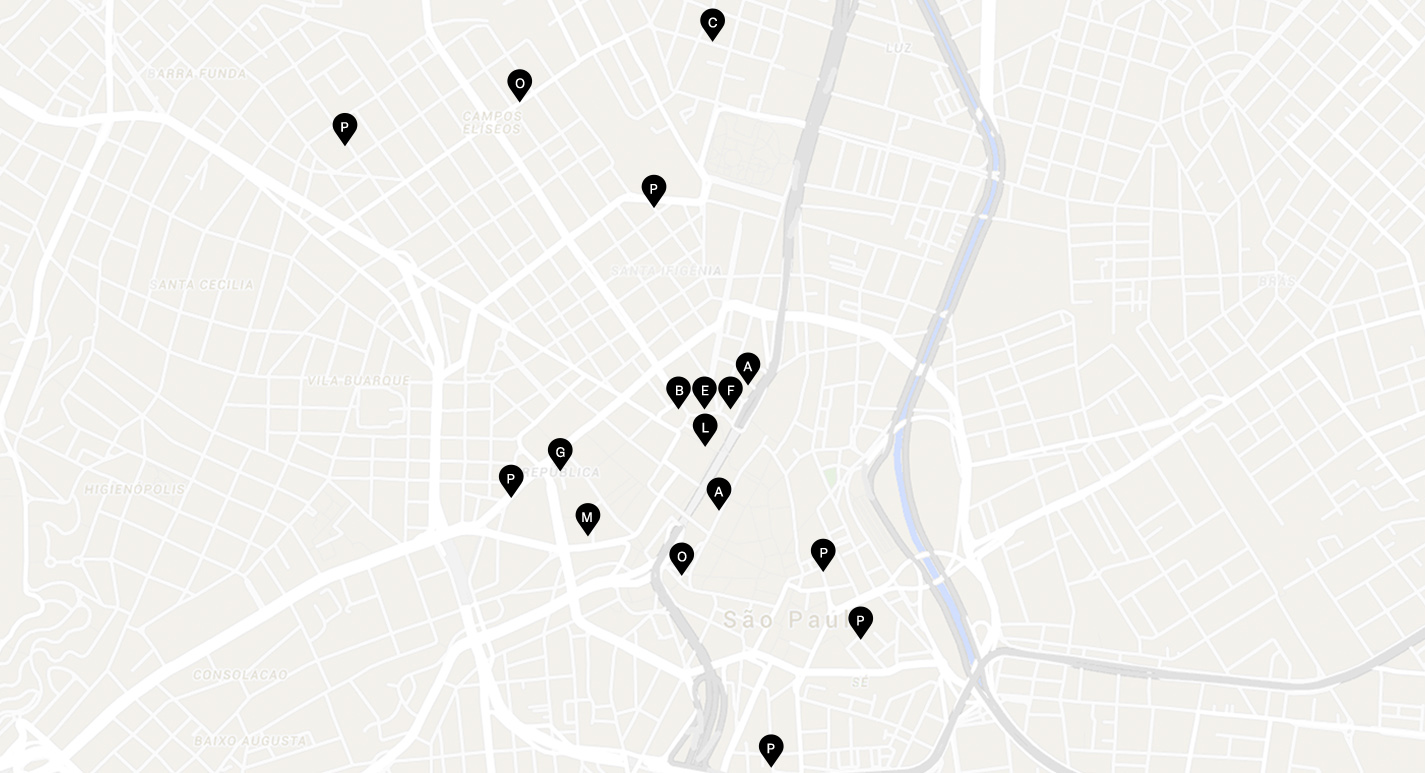
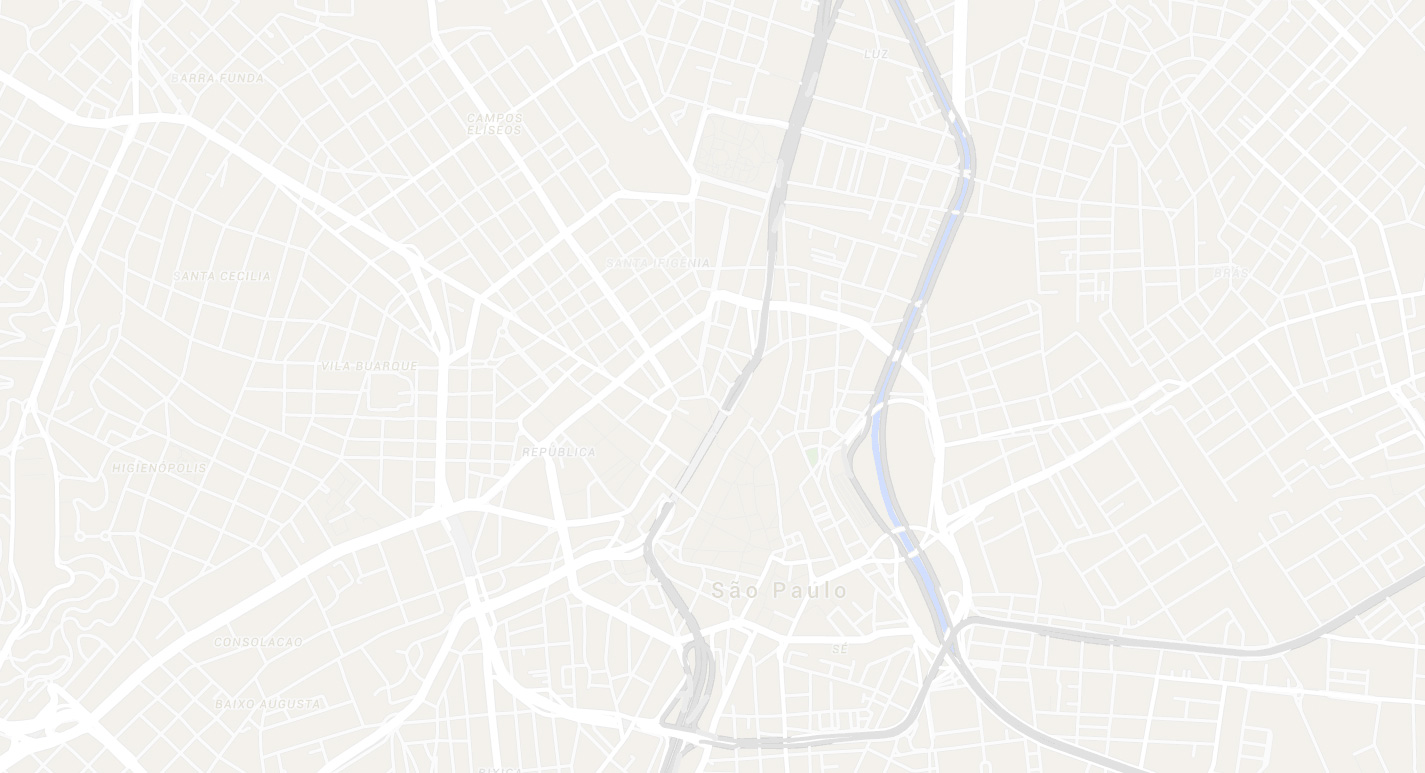
add map

diff --git a/app/sobre.html b/app/sobre.html
@@ -11,22 +11,25 @@ description: CENTRO é um registro da ocupação criativa do centro de São Paul
       </div>
     </div>
     <div class="row margin-bottom">
-      <div class="col-md-6 col-md-offset-1">
+      <div class="col-md-4 col-md-offset-1">
         <dl class="authors">
           <dt>Edição</dt>
           <dd>Luiz Romero (texto), <br> Felipe Rocha e Murilo Fonseca (arte)</dd>
 
           <dt>Fotos</dt>
           <dd>Leonardo Sang</dd>
-
+        </dl>
+      </div>
+      <div class="col-md-4 col-md-offset-1">
+        <dl class="authors">
           <dt>Textos</dt>
-          <dd>Luiz Romero, Alexandre Aragão, <br> Luisa Cella e Nathan Fernandes</dd>
+          <dd>Luiz Romero, Alexandre Aragão, Luisa Cella e Nathan Fernandes</dd>
 
           <dt>Design</dt>
-          <dd>Felipe Rocha e Murilo Fonseca</dd>
+          <dd>Felipe Rocha<br> e Murilo Fonseca</dd>
 
           <dt></dt>
-          <dd>Obrigado a Lucas Andrade, <br> Livia Ascava, Victor de Bone, <br> Nicolas Henriques, Denise Saito <br> e Carolina Wan</dd>
+          <dd>Obrigado a Lucas Andrade, Livia Ascava, Victor de Bone, Nicolas Henriques, Denise Saito<br> e Carolina Wan</dd>
         </dl>
       </div>
     </div>
@@ -36,11 +39,6 @@ description: CENTRO é um registro da ocupação criativa do centro de São Paul
     <div class="row margin-bottom">
       <div class="col-md-6 show-smooth">
         <img src="img/content/about/01.jpg" class="" alt="">
-      </div>
-    </div>
-    <div class="row margin-bottom">
-      <div class="col-md-5 col-md-offset-4 show-smooth">
-        <img src="img/content/about/02.jpg" class="" alt="">
       </div>
     </div>
     <div class="row margin-bottom">
@@ -54,21 +52,6 @@ description: CENTRO é um registro da ocupação criativa do centro de São Paul
       </div>
     </div>
     <div class="row margin-bottom">
-      <div class="col-md-4 show-smooth">
-        <img src="img/content/about/05.jpg" class="" alt="">
-      </div>
-    </div>
-    <div class="row margin-bottom">
-      <div class="col-md-8 col-md-offset-2 show-smooth">
-        <img src="img/content/about/06.jpg" class="" alt="">
-      </div>
-    </div>
-    <div class="row margin-bottom">
-      <div class="col-md-6 pull-right show-smooth">
-        <img src="img/content/about/07.jpg" class="" alt="">
-      </div>
-    </div>
-    <div class="row margin-bottom">
       <div class="col-md-8 pull-right show-smooth">
         <img src="img/content/about/08.jpg" class="" alt="">
       </div>
@@ -79,20 +62,23 @@ description: CENTRO é um registro da ocupação criativa do centro de São Paul
       </div>
     </div>
     <div class="row margin-bottom">
-      <div class="col-md-8 col-md-offset-2 show-smooth">
-        <img src="img/content/about/10.jpg" class="" alt="">
-      </div>
-    </div>
-    <div class="row margin-bottom">
-      <div class="col-md-6 pull-right show-smooth">
-        <img src="img/content/about/11.jpg" class="" alt="">
-      </div>
-    </div>
-    <div class="row margin-bottom">
       <div class="col-md-8 pull-right show-smooth">
         <img src="img/content/about/12.jpg" class="" alt="">
       </div>
     </div>
   </div>
 </div>
-<div class="map-container"></div>
+<div class="map-container">
+  <img src="img/content/about/map.jpg" class="" alt="">
+
+  {% sorted_for post in site.posts sort_by:weight %}
+    {% if post.letter %}
+    <a if {% if post.enabled == "enabled" %} href="{{ post.url | remove_first:'/' }}" {% else %} href="javascript:;" {% endif %} class="marker" style="bottom:{{ post.bottom }}; left: {{ post.left }};">{{ post.letter }}</a>
+    <div class="place">
+      <h1>{{ post.title }}</h1>
+      <p>{{ post.description }}</p>
+    </div>
+    {% endif %}
+  {% endsorted_for %}
+
+</div>

diff --git a/app/_layouts/about.html b/app/_layouts/about.html
@@ -14,10 +14,10 @@
         <meta property="og:description" content="{{ page.description }}"/>
 
         <meta name="twitter:card" content="summary_large_image">
-        <meta name="twitter:site" content="@centrocx">
+        <meta name="twitter:site" content="">
         <meta name="twitter:title" content="{{ page.title }}">
         <meta name="twitter:description" content="{{ page.description }} http://test.frontphant.com/centro/">
-        <meta name="twitter:creator" content="@centrocx">
+        <meta name="twitter:creator" content="">
         <meta name="twitter:image:src" content="http://test.frontphant.com/centro/img/share/share.jpg">
         <meta name="twitter:domain" content="http://test.frontphant.com/centro/">
 
@@ -41,8 +41,8 @@
       <header class="clearfix">
         <a data-component="Toggle" data-target="#menu" data-event="touchend mouseover" href="javascript:;" id="menu-icon" class="dark">Abrir Menu</a>
         <div class="share-options">
-          <a class="share-link share-link__fb dark" href="javascript:;">facebook</a>
-          <a class="share-link share-link__twitter dark" href="javascript:;">facebook</a>
+          <a class="share-link share-link__fb" href="https://www.facebook.com/sharer.php?u=http://test.frontphant.com/centro/">facebook</a>
+          <a class="share-link share-link__twitter" href="https://twitter.com/intent/tweet?text={{ page.description }}&url=http://test.frontphant.com/centro/">twitter</a>
         </div>
       </header>
 

diff --git a/app/_scss/templates/_about.scss b/app/_scss/templates/_about.scss
@@ -48,7 +48,65 @@
 .map-container {
   position: relative;
   width: 100%;
-  height: 773px;
-  background: #f4f2ec image-url("content/about/map.jpg") no-repeat center;
-  @include background-size(cover);
+  background: #f4f2ec;
+
+  img {
+    width: 100%; 
+    z-index: 1;
+  }
+
+  .place {
+    display: none;
+    position: absolute;
+    top: 36%;
+    width: 100%;
+    left: 0;
+    transform: translate(0,-50%);
+    text-align: center;
+    z-index: 1;
+
+    h1 {
+      font: 700 100px "Plantin";
+      margin: 0;
+      line-height: 1;
+    }
+
+    p {
+      font: 400 30px "Dia";
+    }
+  }
+
+  .marker {
+    @include sprites-general("marker");
+
+    position: absolute;
+    text-decoration: none;
+    color: #FFF;
+    line-height: 2;
+    font: 400 15px "Dia";
+    font-size: 15px;
+    z-index: 2;
+    text-indent: 0;
+    text-align: center;
+    padding-top: 6px;
+
+    &:hover {
+      @include sprites-general("marker-hover");
+     
+      color: #000;
+      font: 400 15px "Dia";
+      font-size: 15px;
+      padding-top: 6px;
+      text-indent: 0;
+
+      // &:hover:after {
+      //   content: '\00a0\00a0';
+      //   border-color: #FFF transparent transparent transparent;
+      // }
+
+      &:hover + .place {
+        display: block;
+      }
+    }
+  }
 }

diff --git a/app/_layouts/place.html b/app/_layouts/place.html
@@ -15,10 +15,10 @@
     <meta property="og:description" content="{{ page.title }}{{ page.description }} {{ page.address }}"/>
     
     <meta name="twitter:card" content="summary_large_image">
-    <meta name="twitter:site" content="@centrocx">
+    <meta name="twitter:site" content="">
     <meta name="twitter:title" content="{{ page.title }} | CENTRO">
     <meta name="twitter:description" content="{{ page.title }}{{ page.description }} {{ page.address }} http://test.frontphant.com/centro/{{ page.permalink }}">
-    <meta name="twitter:creator" content="@centrocx">
+    <meta name="twitter:creator" content="">
     <meta name="twitter:image:src" content="http://test.frontphant.com/centro/img/share/share.jpg">
     <meta name="twitter:domain" content="http://test.frontphant.com/centro/{{ page.permalink }}">
     <!-- Place favicon.ico and apple-touch-icon.png in the root directory -->

diff --git a/app/_layouts/default.html b/app/_layouts/default.html
@@ -14,10 +14,10 @@
         <meta property="og:description" content="{{ page.description }}"/>
         
         <meta name="twitter:card" content="summary_large_image">
-        <meta name="twitter:site" content="@centrocx">
+        <meta name="twitter:site" content="">
         <meta name="twitter:title" content="{{ page.title }}">
         <meta name="twitter:description" content="{{ page.description }} http://test.frontphant.com/centro/">
-        <meta name="twitter:creator" content="@centrocx">
+        <meta name="twitter:creator" content="">
         <meta name="twitter:image:src" content="http://test.frontphant.com/centro/img/share/share.jpg">
         <meta name="twitter:domain" content="http://test.frontphant.com/centro/">
 

diff --git a/app/_posts/2015-03-01-Garagem.md b/app/_posts/2015-03-01-Garagem.md
@@ -8,4 +8,8 @@ address: "Rua Doutor Ribeiro de Almeida, 166, Barra Funda."
 coordinates: "-23º 33’ 3.78” -46º 38’ 31.36”"
 enabled: disabled
 permalink: "garagem.html"
+top: "56.5%"
+left: "38.6%"
+bottom: "38.9%"
+letter: "G"
 ---

diff --git a/app/_posts/2015-03-13-casa-do-povo.md b/app/_posts/2015-03-13-casa-do-povo.md
@@ -11,6 +11,10 @@ photo: "casa-do-povo.jpg"
 coverClass: "casa-do-povo"
 shareImage: "CENTRO_share_casapovo.jpg"
 permalink: "casa-do-povo.html"
+top: "0.9%"
+left: "49.12%"
+bottom: "94.5%"
+letter: "C"
 ---
 
 <div class="container">

diff --git a/app/_posts/2015-03-01-Eduqativo.md b/app/_posts/2015-03-01-Eduqativo.md
@@ -8,4 +8,8 @@ address: "Rua Capitão Salomão, 26, República."
 coordinates: "-23º 32’ 34.53” -46º 38’ 12.04”"
 enabled: disabled
 permalink: "eduqativo.html"
+top: "48.6%"
+left: "48.7%"
+bottom: "46.9%"
+letter: "E"
 ---

diff --git a/app/_posts/2015-03-01-Mandibula.md b/app/_posts/2015-03-01-Mandibula.md
@@ -8,4 +8,8 @@ address: "Praça Dom José Gaspar, 106, República."
 coordinates: "-21 58’ 54.15” -46º 47’ 50.04”"
 enabled: disabled
 permalink: "mandibula.html"
+top: "65%"
+left: "40.5%"
+bottom: "30.5%"
+letter: "M"
 ---

diff --git a/app/_posts/2015-03-01-Publica.md b/app/_posts/2015-03-01-Publica.md
@@ -8,4 +8,8 @@ address: "Rua Vitorino Carmilo, 453, Santa Cecília."
 coordinates: "-23º 31’ 58.74” -46º 39’ 5.15”"
 enabled: disabled
 permalink: "publica.html"
+top: "14.5%"
+left: "23.5%"
+bottom: "81%"
+letter: "P"
 ---

diff --git a/app/_posts/2015-03-01-Arnold.md b/app/_posts/2015-03-01-Arnold.md
@@ -8,4 +8,8 @@ address: "Avenida Prestes Maia, 241, República."
 coordinates: "-23º 32’ 32.45” -46º 38’ 6.30”"
 enabled: disabled
 permalink: "arnold.html"
+top: "45.6%"
+left: "51.8%"
+bottom: "50.2%"
+letter: "A"
 ---

diff --git a/app/_posts/2015-03-01-Balsa.md b/app/_posts/2015-03-01-Balsa.md
@@ -8,4 +8,8 @@ address: "Rua Capitão Salomão, 26, República."
 coordinates: "-23º 32’ 34.53” -46º 38’ 12.04”"
 enabled: disabled
 permalink: "balsa.html"
+top: "48.6%"
+left: "46.9%"
+bottom: "46.9%"
+letter: "B"
 ---
